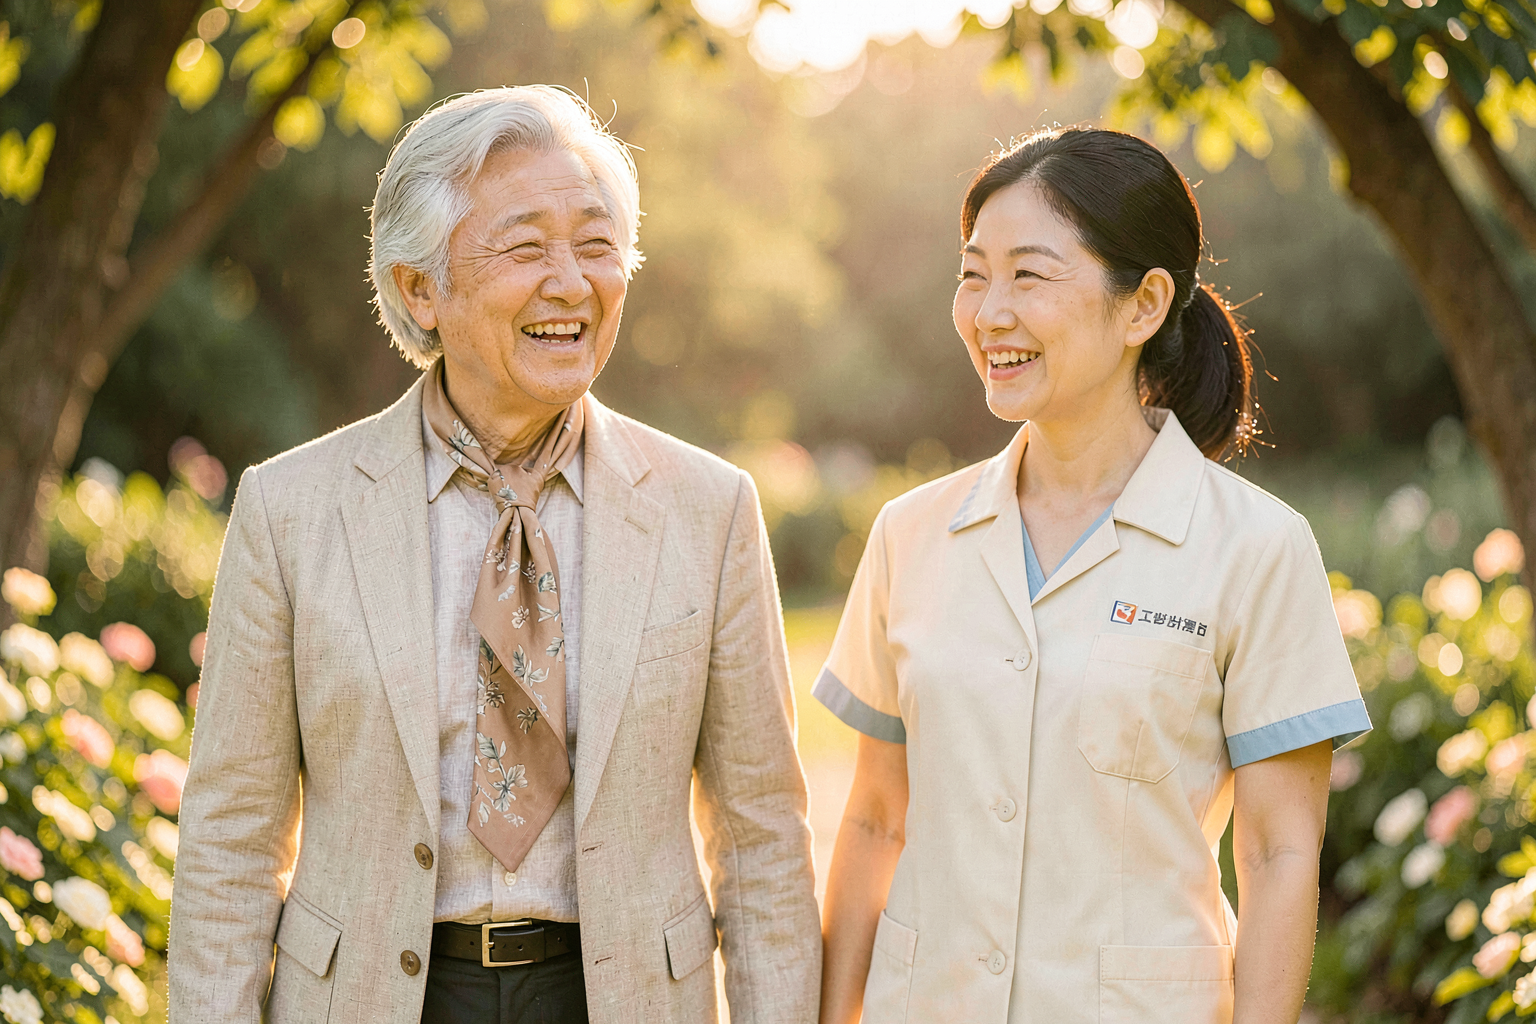
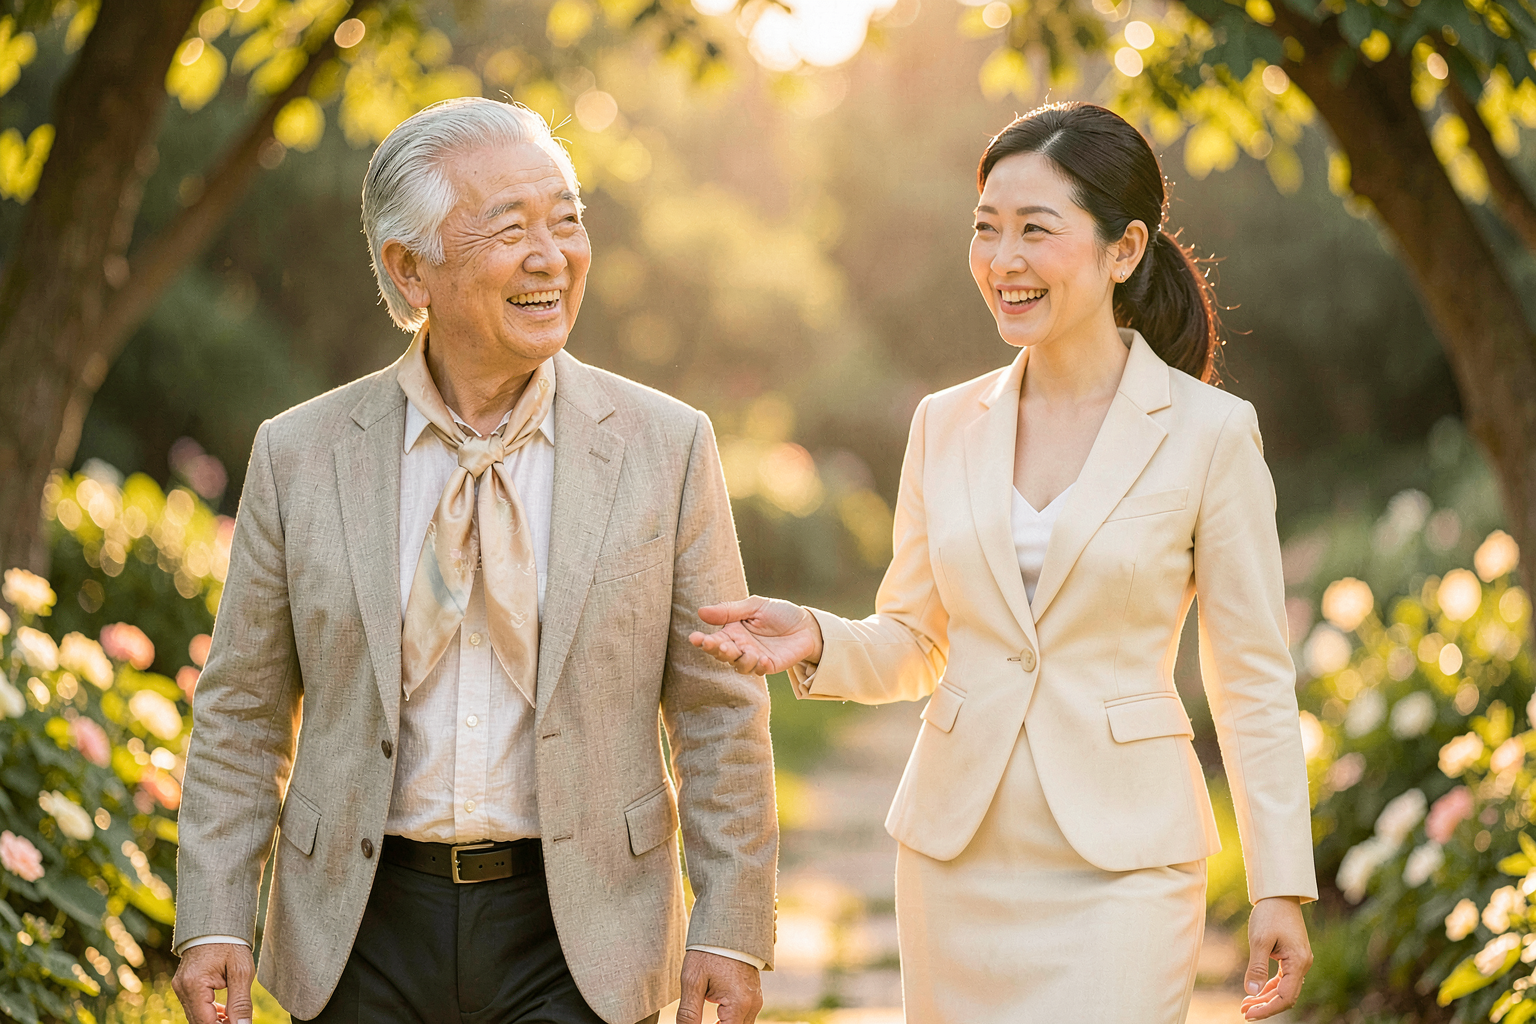
更新首頁主視覺：護理師30歲、正式制服、無名牌、尊榮服務構圖

diff --git a/newcompany/gen_images.py b/newcompany/gen_images.py
@@ -20,7 +20,7 @@ NURSE = "a professional Taiwanese female nurse in her 30s-40s, cream and soft bl
 IMAGES = [
     # ── A. 首頁 ──
     ("01_hero_main", "16:9",
-     f"{ORANGE} walking through a sunlit garden at golden hour with {NURSE} beside them, warm sunlight streaming through trees, laughing together, {STYLE}"),
+     f"{ORANGE} walking through a sunlit garden at golden hour with a professional Taiwanese female nurse in her early 30s wearing a formal elegant uniform (tailored cream blazer and matching skirt, no name tag, no visible logo or brand marks) walking slightly behind and beside them with a graceful guiding hand gesture and warm professional smile, attentive premium concierge service posture, warm sunlight streaming through trees, laughing softly, {STYLE}, luxury concierge service atmosphere"),
     ("02_pain_point", "4:3",
      f"An elegant Taiwanese woman in her 50s sitting by a bright window in a sunlit café, a health check report on the table, holding a coffee cup, thoughtful yet composed expression, not ill-looking, warm morning light, {STYLE}"),
     ("03_value_health", "4:3",
